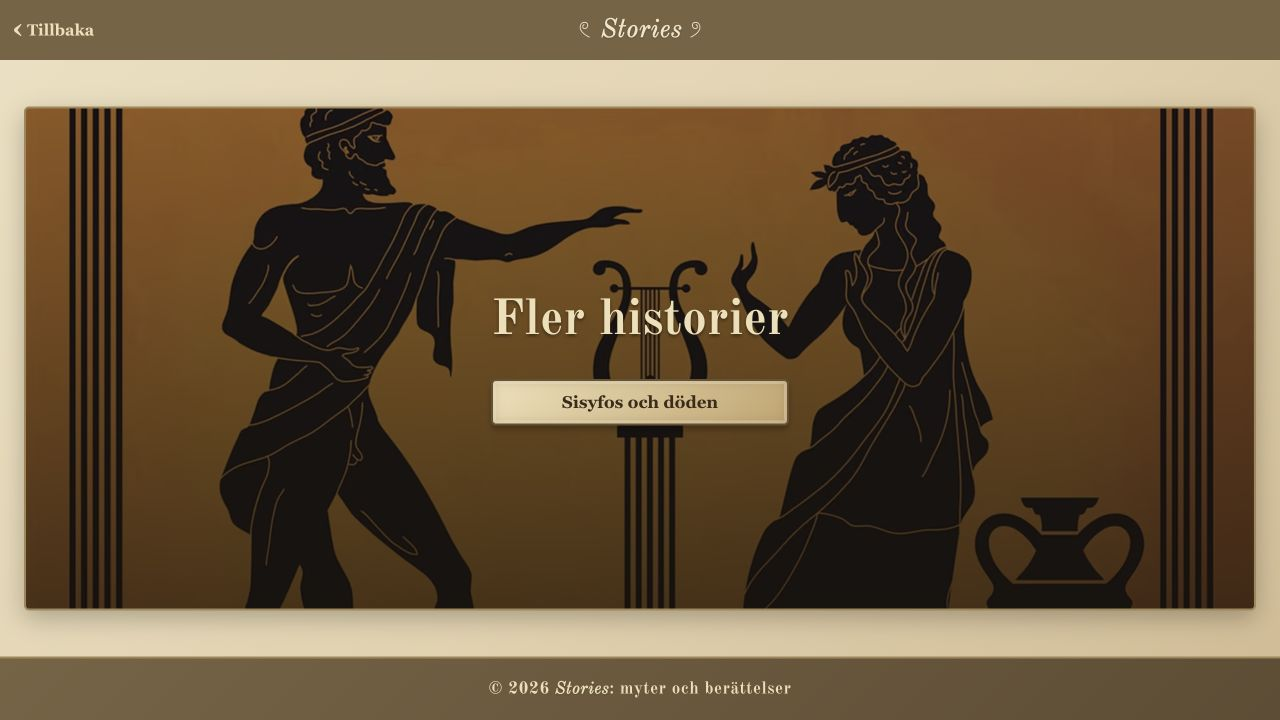
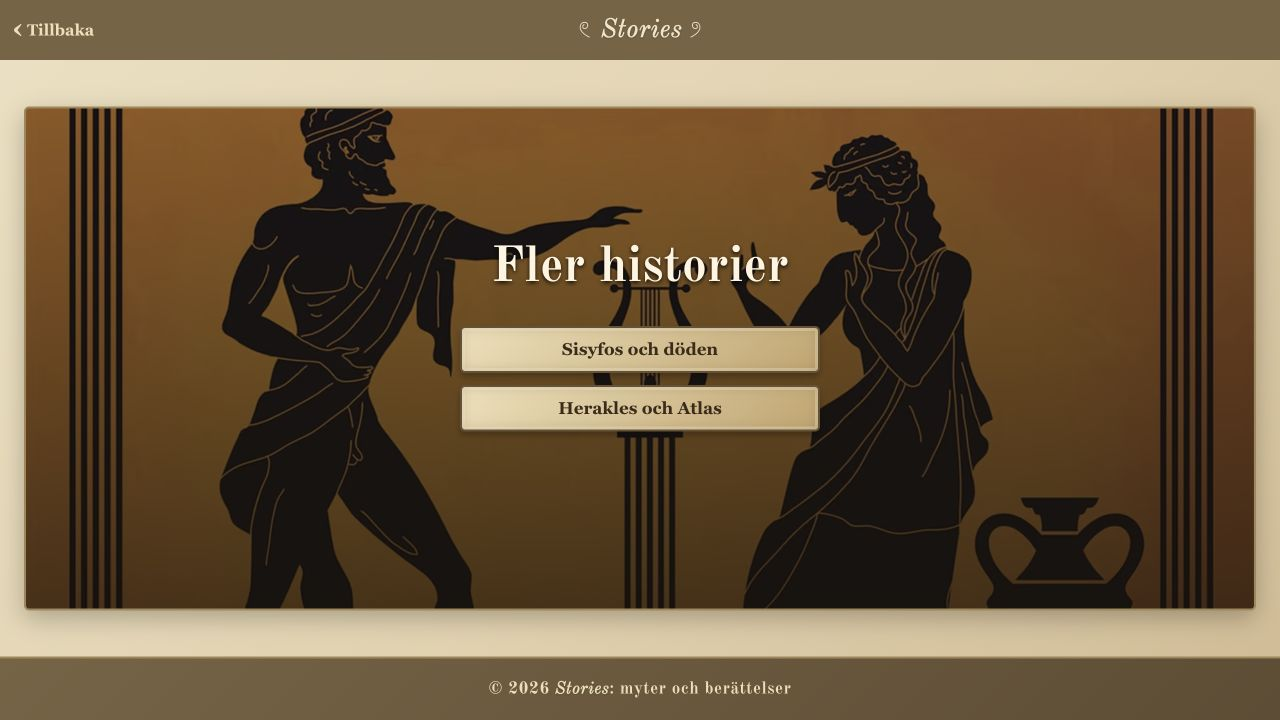
små justeringar

Changed region(s): [[0.3438, 0.3361, 0.6562, 0.6111]]

diff --git a/src/app.css b/src/app.css
@@ -349,6 +349,45 @@ html.ios, html.md { --f7-page-fade-transition-duration: 550ms; }
 
 .hero-kina .hero-text h1,
 .hero-kina .hero-text p {
-  color: #fff8e8;
+  color: #eee1c6;
+  text-shadow: 0 1px 2px rgb(0 0 0 / 45%);
+}
+
+.hero-grekland .hero-text h1,
+.hero-grekland .hero-text p {
+  color: #fff5df;
   text-shadow: 0 2px 4px rgb(0 0 0 / 85%);
+}
+
+/* Retain scroll/history without painting inactive page surfaces behind a transition. */
+.view-main > .page-previous,
+.view-main > .page-next {
+  visibility: hidden;
+}
+.view-main > .page-current,
+.view-main[class*="-forward"] > .page-next,
+.view-main[class*="-backward"] > .page-previous,
+.view-main > .page-swipeback-active,
+.view-main > .page-transitioning {
+  visibility: visible;
+}
+
+.page[data-name="index"] .hero-text h1,
+.page[data-name="index"] .hero-text p {
+  color: #fff5df;
+  text-shadow: 0 2px 4px rgb(0 0 0 / 85%);
+}
+
+/* Keep both Greek collection headings at the same height, regardless of link count. */
+.hero-grekland {
+  align-items: flex-start;
+  padding-top: clamp(64px, 18dvh, 132px);
+}
+.hero-grekland .hero-text {
+  width: min(100%, 650px);
+}
+
+.hero-zen .hero-text h1,
+.hero-zen .hero-text p {
+  text-shadow: 0 2px 3px rgb(0 0 0 / 70%);
 }
